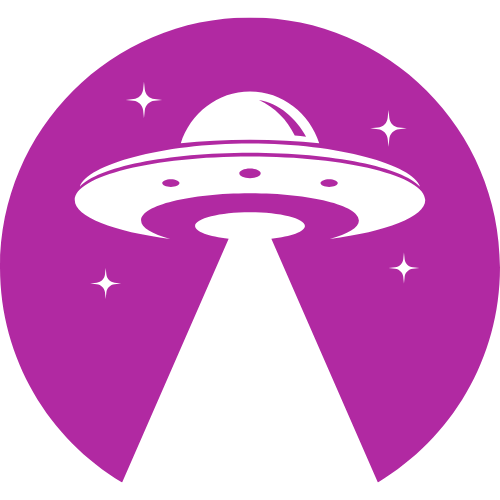
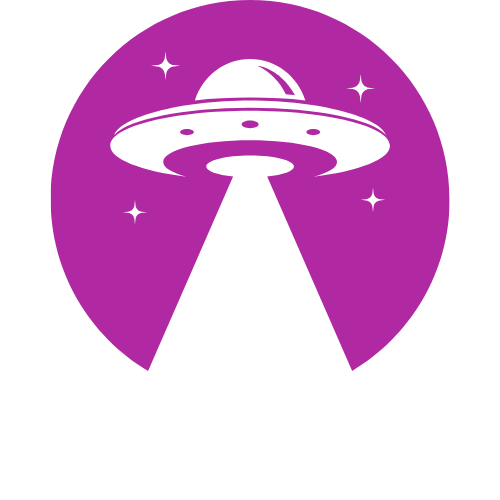
Initial setup for register CSS

diff --git a/GraphicVerseApp/public/css/register.css b/GraphicVerseApp/public/css/register.css
@@ -1,6 +1,6 @@
 /* Add background image */
 body {
-  background-image: url("../svg/Login_background.gif");
+  background-image: url("../svg/Register_background.gif");
   background-size: 80%;
   background-color: #04294F;
   background-repeat: no-repeat;
@@ -17,7 +17,7 @@ body {
 
 .card {
   background:none;
-  margin-right: 1000px; /* Adjust the value to set the space on the left */
+  margin-right: 1500px; /* Adjust the value to set the space on the left */
   margin-bottom: 200px;
   border-radius: 15px;
   border:none;
@@ -40,12 +40,14 @@ body {
 }
 
 .card-header img {
-  max-height: 300px;
+  max-height: 100px;
 }
 
 .card-body {
   padding: 30px;
   border-color: #FDFDFD;
+  color:#FDFDFD;
+  font-family:'Roboto'
 }
 
 .form-control {
@@ -105,8 +107,6 @@ body {
   margin-right: 1px;
   
 }
-
-
 
 .btn-link{
   color: #FDFDFD;

diff --git a/GraphicVerseApp/resources/views/auth/register.blade.php b/GraphicVerseApp/resources/views/auth/register.blade.php
@@ -1,15 +1,44 @@
-@extends('layouts.app')
+<!doctype html>
+<html lang="{{ str_replace('_', '-', app()->getLocale()) }}">
 
-@section('content')
-    <div class="container">
-        <div class="row justify-content-center py-4">
-            <div class="col-md-8">
-                <div class="card">
-                    <div class="card-header">{{ __('Register') }}</div>
+<head>
+    <meta charset="utf-8">
+    <meta name="viewport" content="width=device-width, initial-scale=1">
+    <link rel="icon" type="image/x-icon" href="{{ asset('favicon.ico') }}">
+    <!-- CSRF Token -->
+    <meta name="csrf-token" content="{{ csrf_token() }}">
+    <title>GraphicVerse</title>
+    <!-- Fonts -->
+    <link rel="dns-prefetch" href="//fonts.bunny.net">
+    <link href="https://fonts.bunny.net/css?family=Nunito" rel="stylesheet">
+    <!-- Scripts -->
+    <link href="https://cdnjs.cloudflare.com/ajax/libs/font-awesome/5.15.3/css/all.min.css" rel="stylesheet">
+    <link rel="stylesheet" href="https://cdn.jsdelivr.net/npm/bootstrap@5.3.0/dist/css/bootstrap.min.css">
+    <link rel="stylesheet" href="https://fonts.googleapis.com/css?family=Oswald&display=swap">
+    <link rel="stylesheet" href="https://fonts.googleapis.com/css?family=Roboto&display=swap">
 
-                    <div class="card-body">
-                        <form method="POST" action="{{ route('register') }}">
-                            @csrf
+    <script src="https://cdn.jsdelivr.net/npm/@popperjs/core@2.11.8/dist/umd/popper.min.js"
+        integrity="sha384-I7E8VVD/ismYTF4hNIPjVp/Zjvgyol6VFvRkX/vR+Vc4jQkC+hVqc2pM8ODewa9r" crossorigin="anonymous">
+    </script>
+    <script src="https://cdn.jsdelivr.net/npm/bootstrap@5.3.0/dist/js/bootstrap.min.js"
+        integrity="sha384-fbbOQedDUMZZ5KreZpsbe1LCZPVmfTnH7ois6mU1QK+m14rQ1l2bGBq41eYeM/fS" crossorigin="anonymous">
+    </script>
+    <link href="{{ asset('css/login.css') }}" rel="stylesheet">
+    <!-- Scripts -->
+    {{-- @vite(['resources/sass/app.scss', 'resources/js/app.js']) --}}
+</head>
+
+<body>
+    <link href="{{ asset('css/register.css') }}" rel="stylesheet">
+        <div class="container">
+            <div class="row justify-content-center py-4">
+                <div class="col-md-8">
+                    <div class="card">
+                        <div class="card-header">{{ __('Register') }}</div>
+
+                        <div class="card-body">
+                            <form method="POST" action="{{ route('register') }}">
+                                @csrf
                             <div class="row mb-3">
                                 <label for="name" class="col-md-4 col-form-label text-md-end">{{ __('Name') }}</label>
 
@@ -100,4 +129,4 @@
             </div>
         </div>
     </div>
-@endsection
+</body>

diff --git a/GraphicVerseApp/resources/views/auth/login.blade.php b/GraphicVerseApp/resources/views/auth/login.blade.php
@@ -36,7 +36,6 @@
                 <div class="card">
                     <div class="card-header text-center">
                         <img src="{{ asset('..\svg\GraphicVerse_Capstone.png') }}" alt="App Logo"><br>
-                        {{ __('GraphicVerse') }}
                     </div>
 
                     <div class="card-body">
